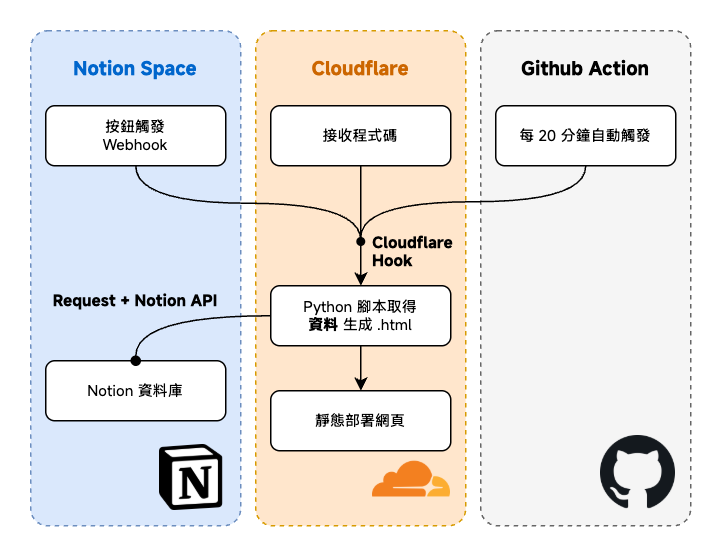
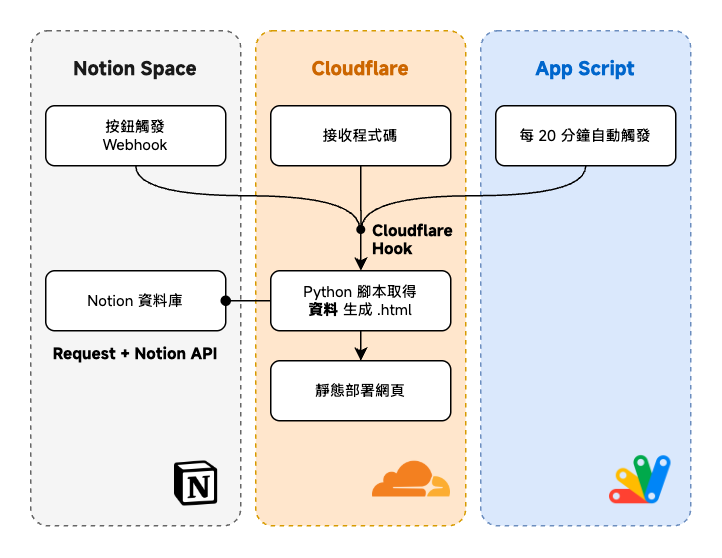
更新 Notion As DB 頁面，新增 GitHub 連結按鈕並調整工具描述

diff --git a/app/pages/project/notionAsDb.py b/app/pages/project/notionAsDb.py
@@ -26,12 +26,17 @@ page = ProjectPage(
     skill_types=["pin", "dev"],
     tags=["網站架設", "Notion", "靜態網頁"],
     description_links=[
+        LinkButton(
+            "Notion 截取模組",
+            "https://github.com/tony13382/PythonPackage-NotionRetrieve",
+            icon="bi-github",
+        ),
         LinkButton("亮進的精選書籤", "https://bm.lianglu.uk/"),
         LinkButton("知識推薦獲取來源", "https://learn.lianglu.uk/"),
     ],
     tools=[
-        Tool("Notion", "靜態網頁資料庫"),
-        Tool("Github Action", "自動化部署"),
+        Tool("Notion", "網頁資料庫"),
+        Tool("App Script", "定時觸發自動化部署"),
         Tool("Cloudflare Pages", "靜態網頁部署"),
     ],
     children=[
